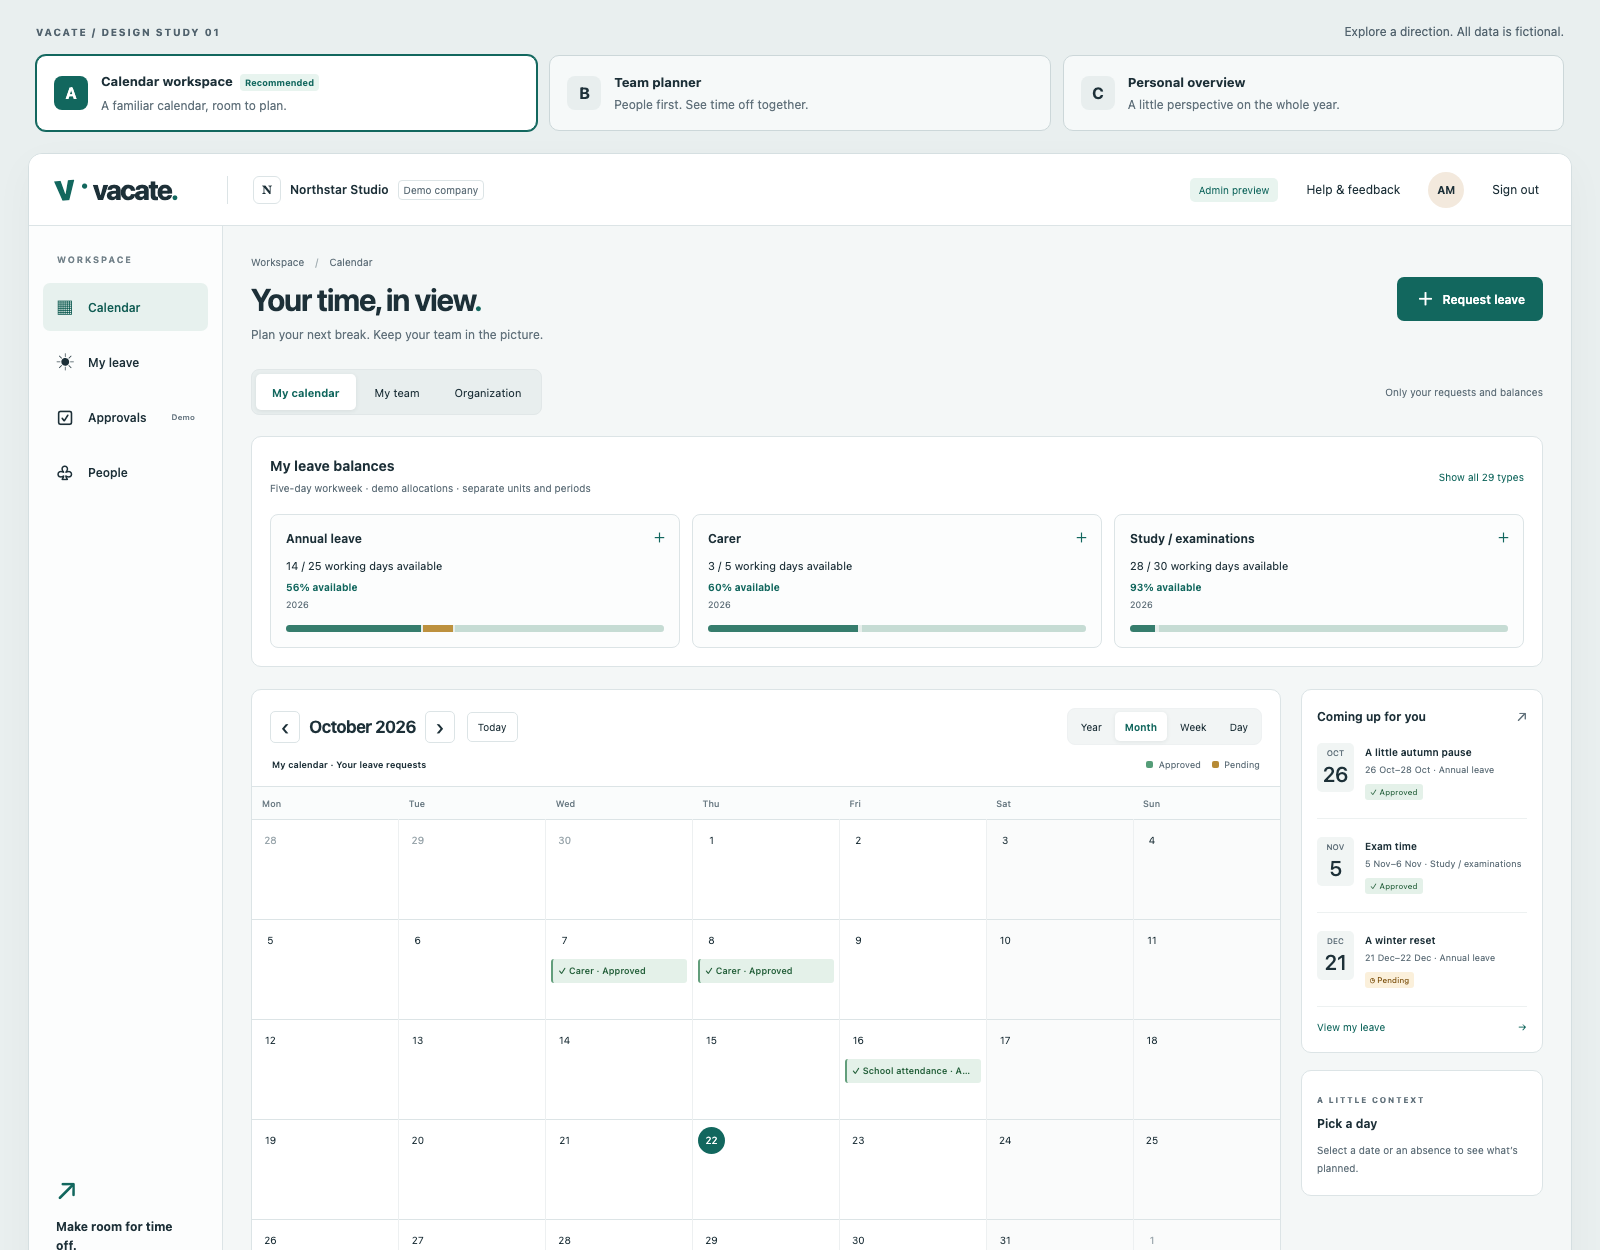
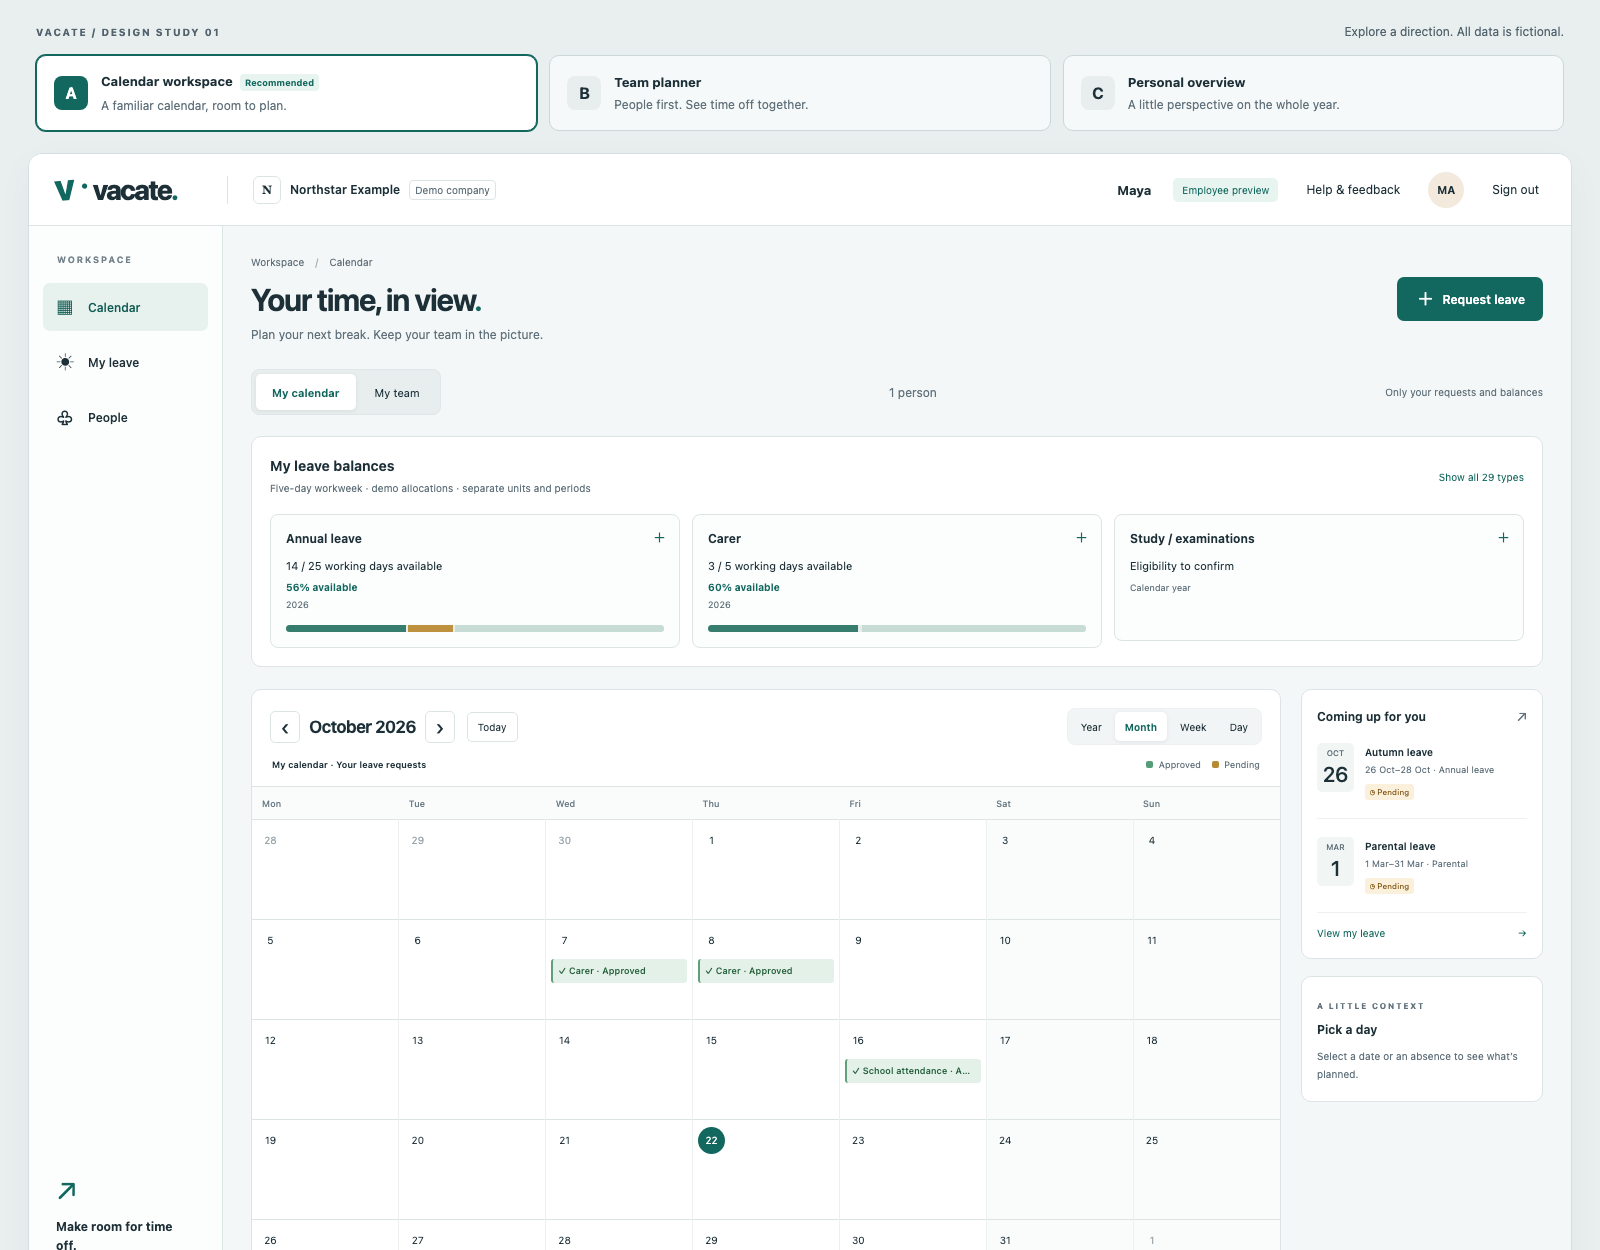
Verify VAC-6 first-name accounts and browser journeys

diff --git a/docs/jira/VAC-6-company-personas-and-visibility-fixtures.md b/docs/jira/VAC-6-company-personas-and-visibility-fixtures.md
@@ -2,7 +2,7 @@
 id: VAC-6
 type: story
 summary: Model a fictional company with per-person demo logins and visibility scenarios
-status: qa
+status: done
 created: 2026-10-23
 updated: 2026-10-23
 parent: null
@@ -11,7 +11,7 @@ depends_on: [VAC-1]
 
 # VAC-6 — Model a fictional company with per-person demo logins and visibility scenarios
 
-![Story](badges/story.svg) **🔍 QA** · Implementation: Codex
+![Story](badges/story.svg) **✅ Done** · Implementation: Codex
 
 ## Description
 
@@ -64,28 +64,28 @@ Coordinate settings, overview, approval and shortlist decisions with [VAC-2](VAC
 
 ## Acceptance scenarios
 
-- [ ] Given the approved roster, each fictional person has exactly one documented demo account, one company context and stable links to their own fixtures; all usernames are distinct and no personnel record silently shares another person's login.
-- [ ] Given each demo login, the account label, own balance and own request details belong to that person; another fixture person's personal data does not appear as theirs.
-- [ ] Given HR/owner/employee and any approved team-lead persona, landing pages, overview scopes, settings and approval actions match the reviewed matrix. Temporary approval rights belong to admin accounts only; a job title alone grants none.
-- [ ] Given team, department and organization views, the correct fictional people and generic availability appear; private categories, reasons, balances and decision comments remain outside shared cards/details unless separately authorized.
-- [ ] Given logout/login, reload and attempted stale/direct navigation, previous account selections, personal dialogs and unsaved form state are cleared or rebound under the agreed demo contract.
-- [ ] Given a guessed person or group identifier outside an account's agreed scope, the demo displays the reviewed denied/empty state rather than rendering that person's private detail. This exercises presentation behavior only; static fixture assets remain public.
-- [ ] If a second fictional company is approved, its separate accounts do not render the first company's people, requests, balances or settings in application views; no account gains company-switching capability.
-- [ ] Given all fixture files and documentation, names/emails/data are clearly fictional, no real credentials or medical records are included, and browser-demo access is labelled public/non-secure.
-- [ ] **Future server gate:** before real employee/account endpoints, seed companies A/B and test read/write/approve/export/configuration isolation via IDs, queries and payloads, including administrators. Test unauthorized same-company detail access and globally unique company-email account creation without disclosure of another company's identity. Static client fixtures and demo role checks cannot satisfy these production gates.
+- [x] Given the approved roster, each fictional person has exactly one documented demo account, one company context and stable links to their own fixtures; all usernames are distinct and no personnel record silently shares another person's login.
+- [x] Given each demo login, the account label, own balance and own request details belong to that person; another fixture person's personal data does not appear as theirs.
+- [x] Given HR/owner/employee and any approved team-lead persona, landing pages, overview scopes, settings and approval actions match the reviewed matrix. Temporary approval rights belong to admin accounts only; a job title alone grants none.
+- [x] Given team, department and organization views, the correct fictional people and generic availability appear; private categories, reasons, balances and decision comments remain outside shared cards/details unless separately authorized.
+- [x] Given logout/login, reload and attempted stale/direct navigation, previous account selections, personal dialogs and unsaved form state are cleared or rebound under the agreed demo contract.
+- [x] Given a guessed person or group identifier outside an account's agreed scope, the demo displays the reviewed denied/empty state rather than rendering that person's private detail. This exercises presentation behavior only; static fixture assets remain public.
+- **Not applicable to this release:** no second company is shipped; company switching is absent. Negative company/group identifiers are tested only as presentation checks.
+- [x] Given all fixture files and documentation, names/emails/data are clearly fictional, no real credentials or medical records are included, and browser-demo access is labelled public/non-secure.
+- **Deferred future server gate, outside this mock release:** before real employee/account endpoints, seed companies A/B and test read/write/approve/export/configuration isolation via IDs, queries and payloads, including administrators. Test unauthorized same-company detail access and globally unique company-email account creation without disclosure of another company's identity. Static client fixtures and demo role checks cannot satisfy these production gates.
 
 ## Subtasks and responsibilities
 
 ### UX
 
-- [ ] UX-1: Draft persona goals and a small company map; distinguish work title, application role and visibility scope.
-- [ ] UX-2: Review representative employee, HR/owner, team-view and account-change journeys against the access matrix.
+- [x] UX-1: Draft persona goals and a small company map; distinguish work title, application role and visibility scope.
+- [x] UX-2: Review representative employee, HR/owner, team-view and account-change journeys against the access matrix.
 
 ### UI
 
-- [ ] UI-1: Replace the shared-viewer assumption with approved stable fictional identities and per-person demo account mappings.
-- [ ] UI-2: Bind own requests/balances and group availability to the active fixture account, with predictable reset and empty/denied states.
-- [ ] UI-3: Update public demo access/help text and keep all accounts clearly labelled as a UI simulation.
+- [x] UI-1: Replace the shared-viewer assumption with approved stable fictional identities and per-person demo account mappings.
+- [x] UI-2: Bind own requests/balances and group availability to the active fixture account, with predictable reset and empty/denied states.
+- [x] UI-3: Update public demo access/help text and keep all accounts clearly labelled as a UI simulation.
 
 ### Backend
 
@@ -97,9 +97,9 @@ Not applicable: use synthetic fixture files; no personnel/account schema or migr
 
 ### QA and other responsibilities
 
-- [ ] Product-1: Review roster size, sector setting, persona goals, group boundaries, accounts and access matrix before Todo.
-- [ ] QA-1: Exercise every demo account and agreed scope, own/shared detail boundaries, reload/logout/account changes and negative identifier cases.
-- [ ] Privacy-1: Inspect fixtures and help text for invented sensitive narratives, real identities or claims of secure authentication; record static-asset exposure and future server gates.
+- [x] Product-1: Review roster size, sector setting, persona goals, group boundaries, accounts and access matrix before Todo.
+- [x] QA-1: Exercise every demo account and agreed scope, own/shared detail boundaries, reload/logout/account changes and negative identifier cases.
+- [x] Privacy-1: Inspect fixtures and help text for invented sensitive narratives, real identities or claims of secure authentication; record static-asset exposure and future server gates.
 - Infrastructure: Not applicable beyond packaging approved fixture assets with the existing mock.
 
 ## Attachments and sources
@@ -141,6 +141,8 @@ Human actual: Unknown. Assistant duration: Unknown. Automation elapsed: not reco
 - 2026-10-23 · Codex: Recorded direct dependency metadata and prerequisite outputs; kept coordination links non-blocking. Status unchanged.
 - 2026-10-23 · Codex: Specification → Todo → In progress after the founder instructed proceeding with the bounded mock proposal. VAC-1 prerequisite is released; no production policy approval is inferred.
 - 2026-10-23 · Codex: In progress → QA. Persona/account implementation, package integration and independent source review are complete. Fixture/session checks pass; full browser/history/keyboard verification is running before release.
+
+- 2026-10-23 · Codex: QA → Done after fixture tests, complete local browser acceptance, package checks and independent source review passed. Keyboard and history journeys are verified independently for reliable headless input; hosted CI/deployment follow.
 
 ## Verification and release
 

diff --git a/docs/release-2026-10-23-vac-6.md b/docs/release-2026-10-23-vac-6.md
@@ -10,9 +10,9 @@ The optional second company is omitted. VAC-2 settings, VAC-3 dashboard refineme
 
 ## Review and verification
 
-Independent source review found no release-blocking correctness/privacy issues and independently passed fixture/session checks. It requested a real browser-history test for stale personal state; that regression is being added before release.
+Independent source review found no release-blocking correctness/privacy issues and independently passed fixture/session checks. It requested a real browser-history test for stale personal state; the added Back/Forward regression passed. Native keyboard checks use trusted pointer/key input on a fresh document, independently of history traversal, because headless Chrome retained a hidden document after traversal during initial harness attempts. No application assertions were waived.
 
-Node fixture tests pass for the independently expected roster/capabilities, exact scope membership, denied foreign IDs, sanitized shared projections, per-person request/balance reconciliation, missing/zero balances and invalid session/logout handling. Full local browser acceptance, final independent confirmation and hosted checks remain pending at this checkpoint.
+Node fixture tests pass for the independently expected roster/capabilities, exact scope membership, denied foreign IDs, sanitized shared projections, per-person request/balance reconciliation, missing/zero balances and invalid session/logout handling. Full local Chrome acceptance passed for all 12 firstname/firstname accounts, compatibility aliases, all permitted scopes/group rosters, own records, negative identifiers, shared-detail privacy, account resets, actual Back/Forward traversal, catalogue/unit/date regressions, trusted Escape/focus return, 16 mobile overflow checks and eight screenshots. Fresh packaging, fixture script load order, Angular entry preservation, revision marker, no-store routing, syntax and whitespace checks passed. Hosted checks and deployment remain pending at this checkpoint.
 
 ## Deployment
 

diff --git a/docs/jira/Product-Backlog.md b/docs/jira/Product-Backlog.md
@@ -9,7 +9,7 @@ All real Vacate issues, including completed releases. [Workflow, types and statu
 | VAC-3 | ![Story](badges/story.svg) | Lead the administrator experience with organization and team overviews | 📝 Specification | [VAC-6](VAC-6-company-personas-and-visibility-fixtures.md) | [VAC-3](VAC-3-admin-overview-first-experience.md) |
 | VAC-4 | ![Story](badges/story.svg) | Preview an administrator-only leave approval inbox | 📝 Specification | [VAC-6](VAC-6-company-personas-and-visibility-fixtures.md) | [VAC-4](VAC-4-admin-approval-inbox-mock.md) |
 | VAC-5 | ![Story](badges/story.svg) | Show common leave types first with an explicit show-all action | 📝 Specification | [VAC-1](VAC-1-cloud-foundation-and-leave-mock.md) (released) | [VAC-5](VAC-5-common-leave-types-chooser.md) |
-| VAC-6 | ![Story](badges/story.svg) | Model a fictional company with per-person demo logins and visibility scenarios | 🔍 QA | [VAC-1](VAC-1-cloud-foundation-and-leave-mock.md) (released) | [VAC-6](VAC-6-company-personas-and-visibility-fixtures.md) |
+| VAC-6 | ![Story](badges/story.svg) | Model a fictional company with per-person demo logins and visibility scenarios | ✅ Done | [VAC-1](VAC-1-cloud-foundation-and-leave-mock.md) (released) | [VAC-6](VAC-6-company-personas-and-visibility-fixtures.md) |
 
 Dependencies list **direct implementation prerequisites**, matching each issue's `depends_on` metadata. Coordination links do not block implementation, and inherited prerequisites are not repeated. VAC-6 supplies the shared personas/account fixtures for VAC-2–VAC-4; VAC-5 can proceed independently of VAC-6 after its shortlist decisions. VAC-2–VAC-5 retain their own open specification decisions.
 
